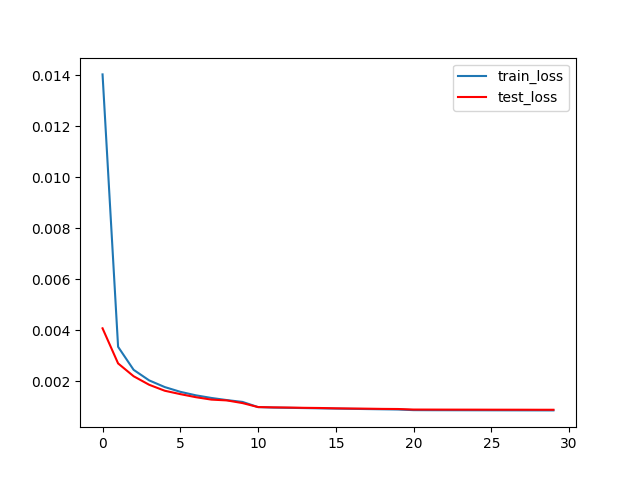
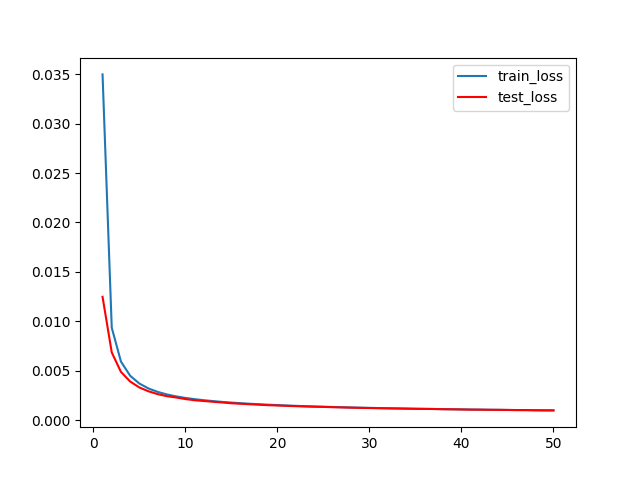
fix training param

diff --git a/ae/train.py b/ae/train.py
@@ -1,4 +1,4 @@
-import time
+import time, os
 import torch
 from torch.optim.lr_scheduler import StepLR
 import torch.nn.functional as F
@@ -59,17 +59,22 @@ if __name__ == '__main__':
     data_name = 'mnist'
     print('Data using: {}'.format(data_name))
     train_data, test_data = get_dataset(data_name)
+    
+    
+    # make dirs
+    os.makedirs('results', exist_ok=True)
+    os.makedirs('ckpts', exist_ok=True)
 
     # == Model ==
     model = ConvAutoEncoder().to(device)
 
     # == optimizer ==
     criterion = torch.nn.MSELoss()
-    optimizer = torch.optim.Adam(model.parameters(), lr=0.001)
+    optimizer = torch.optim.Adam(model.parameters(), lr=0.0001)
 
     # == Main Loop ==
     max_acc = 0
-    max_epoch = 90
+    max_epoch = 50
 #     scheduler = StepLR(optimizer=optimizer, step_size=10)
 
     # first epoch
@@ -103,7 +108,7 @@ if __name__ == '__main__':
                 epoch, data_name))
             
             # sample
-            sample = torch.randn(64, 20).to(device)
-            sample = model.decode(sample).cpu()
+            sample = torch.randn(64, 128).to(device)
+            sample = model.decoder(sample).cpu()
             save_image(sample.view(64, 1, 28, 28),
                        'results/sample_e{:02}.png'.format(epoch))

diff --git a/irmae/train.py b/irmae/train.py
@@ -86,7 +86,7 @@ if __name__ == '__main__':
     for epoch in range(1, max_epoch + 1):
         t = time.time()
         train_loss = train(model, train_data, epoch, criterion, optimizer, device=device)
-        test_loss = test(model, test_data, criterion, device=device)
+        test_loss = test(model, test_data, epoch, criterion, device=device)
 #         scheduler.step()
 
         print('train loss:', train_loss, 'test loss:', test_loss)

diff --git a/vae/model.py b/vae/model.py
@@ -23,6 +23,7 @@ class VAE(nn.Module):
             nn.Linear(32, 256),
             nn.ReLU(True),
             nn.Linear(256, 784),
+            nn.Sigmoid(),
         )
 
     def encode(self, x):
@@ -39,7 +40,6 @@ class VAE(nn.Module):
 
     def decode(self, z):
         out = self.decode_fc(z)
-        out = torch.sigmoid(out)
         return out
 
     def forward(self, x):
